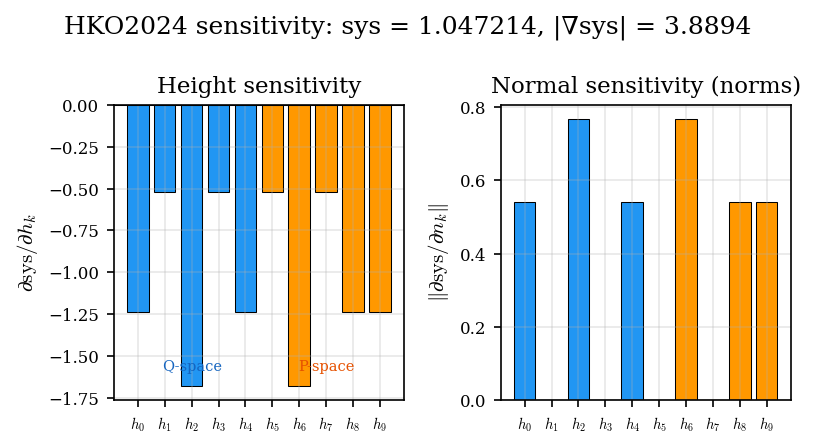
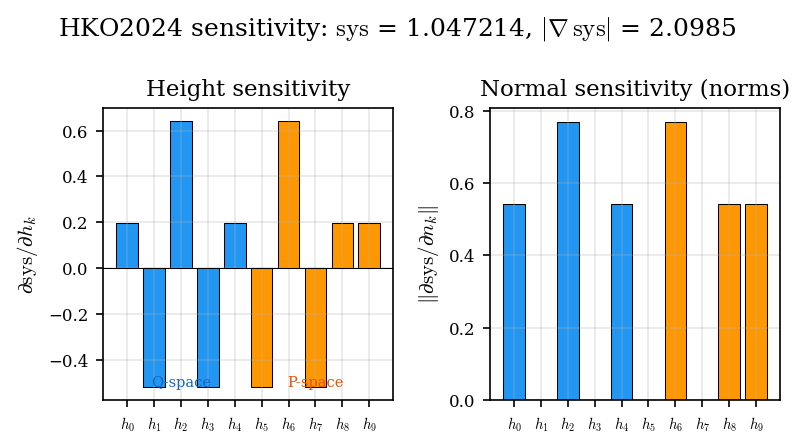
Regenerate HKO neighborhood data with corrected sign, update .tex
- Regenerate JSONL and plots with fixed d_cap_h sign (now positive)
- Update .tex table values to match JSONL (d_cap: +1.176/+1.902, d_sys: +0.198/+0.640/-0.518)
- Remove sign-bug TODO and JSONL-regeneration TODO markers
- Keep φ map verification TODO for Jörn
- Remove FD cross-check from binary hot path (was causing 5min timeout)
- Mark FD helper functions as #[allow(dead_code)] (kept for ad-hoc debugging)
- Permanent FD regression tests are in crate sensitivity_test.rs

diff --git a/experiments/hko-neighborhood/hko-neighborhood.tex b/experiments/hko-neighborhood/hko-neighborhood.tex
@@ -1,0 +1,254 @@
+% hko-neighborhood.tex — \input'd from experiments/experiments.tex
+%
+% Symmetry analysis of the HKO2024 counterexample and its sensitivity structure.
+%
+% Sources:
+%   - Generated data: experiments/hko-neighborhood/hko-neighborhood-sensitivity.jsonl
+%   - Plot script: experiments/hko-neighborhood/hko_neighborhood.py
+%   - HKO2024 paper: papers/hko2024/counterexample.tex (Prop. 3, Sec. 3.1)
+%   - Thesis definitions: basic-definitions.tex, lagrangian-product-algorithm-proof.tex
+%
+% Structure:
+%   - Setup: HKO2024 as Lagrangian product
+%   - Polytope symmetry vs.\ symplectic symmetry
+%   - Orbit structure and subdifferential
+%   - Consequences for local maximality
+
+\subsection{Symmetry structure of HKO2024}
+\label{sec:hko-symmetry}
+
+The counterexample of~\cite{HaimKislevOstrover2024} is the Lagrangian product
+$K = K_q \times K_p$ (Definition~\ref{def:lagrangian-product}),
+where $K_q \subset L_q$ is the regular pentagon with vertices at
+$(\cos\tfrac{2\pi k}{5},\, \sin\tfrac{2\pi k}{5})$ for $k = 0, \ldots, 4$,
+and $K_p \subset L_p$ is $K_q$ rotated by $90^\circ$.
+The facets split into $q$-facets $\{0, \ldots, 4\}$ and
+$p$-facets $\{5, \ldots, 9\}$
+(Lemma~\ref{lem:lagrangian-facets}).
+All ten heights are equal:
+$h_k = \cos(\pi/5)$ for all $k$.
+
+We analyze the symmetry of this polytope and its near-optimal
+Reeb orbits to explain the structure of the sensitivity gradient
+$\nabla_h\,\mathrm{sys}$.
+The main findings are:
+the polytope symmetry group has order~50 (all facets equivalent),
+but only a symplectic subgroup of order~10 preserves the orbit structure;
+the 44 near-optimal orbits yield 10~distinct per-orbit gradients
+forming a single orbit under this subgroup;
+and the per-orbit gradients have mixed sign
+(positive at visited facets, negative at unvisited ones).
+
+The billiard algorithm
+(Algorithm~\ref{alg:billiard}) finds 364 valid orbits, of which 44
+achieve $c_{\mathrm{EHZ}}(K)$ to machine precision
+(relative gap $< 5 \times 10^{-14}$).
+The sensitivity analysis from
+Section~\ref{sec:sys-optimization} gives
+$\mathrm{sys}(K) \approx 1.04721$, confirming the
+counterexample.
+
+\subsubsection*{Polytope symmetry group}
+
+We identify the group of linear maps $\mathbb{R}^4 \to \mathbb{R}^4$
+that preserve $K$ as a set.
+
+\emph{Independent rotations.}
+Let $R_{72^\circ}$ denote the $2{\times}2$ rotation by $72^\circ = 2\pi/5$.
+Since $K_q$ is a regular pentagon, applying $R_{72^\circ}$ in $L_q$
+while fixing $L_p$ permutes the $q$-facet normals cyclically
+($n_k \mapsto n_{k+1\bmod 5}$, $k = 0, \ldots, 4$)
+without affecting the $p$-facets.
+Call this map $C_5^q$.
+Analogously, $C_5^p$ applies $R_{72^\circ}$ in $L_p$ only.
+Both preserve $K$ because all heights are equal, and they commute:
+$C_5^q C_5^p = C_5^p C_5^q$.
+Together they generate a $C_5 \times C_5$ subgroup of order~25.
+
+\emph{The $q$\nobreakdash-$p$ exchange $\varphi$.}
+% [TODO: JÖRN - verify the following map construction is correct]
+The $q$-pentagon has normals at angles
+$36^\circ$, $108^\circ$, $180^\circ$, $252^\circ$, $324^\circ$
+in the $(q_1, q_2)$ plane, while the $p$-pentagon has normals at
+$-54^\circ$, $18^\circ$, $90^\circ$, $162^\circ$, $234^\circ$
+in the $(p_1, p_2)$ plane --- offset by exactly $-90^\circ$.
+This suggests the map
+\[
+  \varphi \colon (q_1, q_2, p_1, p_2)
+  \;\mapsto\; (-p_2,\; p_1,\; q_2,\; -q_1),
+\]
+which sends each $q$-normal to the corresponding $p$-normal and vice
+versa: $\varphi(n_k) = n_{k+5\bmod 10}$ for $k = 0, \ldots, 9$.
+Since all heights are equal, $\varphi(K) = K$.
+
+The map $\varphi$ is an involution ($\varphi^2 = I$), and it is a
+symplectomorphism:
+\[
+  dq_1' \wedge dp_1' + dq_2' \wedge dp_2'
+  = (-dp_2) \wedge dq_2 + dp_1 \wedge (-dq_1)
+  = dq_2 \wedge dp_2 + dq_1 \wedge dp_1
+  = \omega_0.
+\]
+Direct computation shows that it conjugates $C_5^q$ into $C_5^p$:
+$\varphi \, C_5^q \, \varphi = C_5^p$.
+The full group
+$\langle C_5^q,\, C_5^p,\, \varphi \rangle
+\cong (C_5 \times C_5) \rtimes \mathbb{Z}_2$
+has order $50$, verified by generating all elements and
+counting the distinct permutations of the ten facet indices.
+All ten facets form a single orbit of this group.
+
+\begin{remark}
+$C_5^q$ and $C_5^p$ are \emph{not} symplectomorphisms:
+$C_5^q$ has matrix $\operatorname{diag}(R_{72^\circ}, I_2)$, and
+\[
+  (C_5^q)^\top J_0\, C_5^q
+  = \begin{pmatrix} 0 & -R_{72^\circ}^\top \\ R_{72^\circ} & 0 \end{pmatrix}
+  \neq J_0.
+\]
+Intuitively, $\omega_0 = dq_1 \wedge dp_1 + dq_2 \wedge dp_2$ couples
+$q$- and $p$-coordinates; rotating only one factor breaks this pairing.
+Nevertheless, $C_5^q$ and $C_5^p$ preserve $K$ as a set, so
+$c_{\mathrm{EHZ}}(C_5^q(K)) = c_{\mathrm{EHZ}}(K)$
+holds trivially (same convex body), but they do not map Reeb orbits
+to Reeb orbits.
+\end{remark}
+
+\subsubsection*{Symplectic symmetry and orbit structure}
+
+The \emph{diagonal rotation}
+$\Delta_{72^\circ} \coloneqq \operatorname{diag}(R_{72^\circ}, R_{72^\circ})$
+rotates both $L_q$ and $L_p$ simultaneously.
+It is a symplectomorphism:
+\[
+  \Delta_{72^\circ}^\top J_0\, \Delta_{72^\circ}
+  = \begin{pmatrix} 0 & -R_{72^\circ}^\top R_{72^\circ} \\
+    R_{72^\circ}^\top R_{72^\circ} & 0 \end{pmatrix}
+  = J_0,
+\]
+since $R_{72^\circ}^\top R_{72^\circ} = I_2$.
+It maps $n_k \mapsto n_{k+1\bmod 5}$ for $q$-facets and
+$n_k \mapsto n_{k+1\bmod 5}$ (within the $p$-block) for $p$-facets.
+
+Since $\Delta_{72^\circ}$ and $\varphi$ are both symplectomorphisms
+preserving~$K$,
+they map Reeb orbits to Reeb orbits of equal action
+(Lemma~\ref{lem:capacity-axioms}\,(iii) applied at the orbit level).
+The group $\langle \Delta_{72^\circ},\, \varphi \rangle$ has order~$10$,
+verified by the same enumeration method.
+
+\emph{This group is exactly the orbit symmetry group.}
+Each of the 44 near-optimal orbits visits exactly
+3~$q$-facets and 3~$p$-facets (empirically, all 44 orbits follow this
+pattern).
+Grouping orbits by their visited facet sets $(S_q, S_p)$ yields
+10~groups of 4--5 orbits each, and these 10 groups form a
+\emph{single orbit} under $\langle \Delta_{72^\circ}, \varphi \rangle$.
+
+\emph{$C_5^q$ alone does not preserve the orbit structure.}
+Applying $C_5^q$ (rotate $q$-facets only, fix $p$-facets) to any
+group $(S_q, S_p)$ produces a pair $(S_q', S_p)$ that does not
+appear among the 10 groups ---
+checked exhaustively for all~10.
+The Reeb dynamics on a Lagrangian product couple $q$- and
+$p$-coordinates (Lemma~\ref{lem:lagrangian-reeb}: on a $q$-facet
+the trajectory moves in $L_p$, and vice versa), so a rotation
+in one factor alone changes which facets the orbit visits in
+\emph{both} factors.
+
+\subsubsection*{Subdifferential structure}
+
+The systolic ratio is $\mathrm{sys} = c_{\mathrm{EHZ}}^2 / (2\,\mathrm{vol})$.
+Because the 44 near-optimal orbits all achieve $c_{\mathrm{EHZ}}$ up to
+machine precision, each orbit defines its own
+$\partial\,\mathrm{sys}/\partial h_k$ vector
+(Section~\ref{sec:sys-optimization}),
+and the convex hull of these 44 vectors is contained in the Clarke
+subdifferential~\cite{Clarke1983} of $\mathrm{sys}$ with respect to
+heights (the convex hull of all limit points of gradients at nearby
+differentiable points).
+
+Among the 44 per-orbit gradient vectors:
+\begin{itemize}
+\item \textbf{10 are distinct}
+  (each a permutation of three values),
+  forming a single orbit under
+  $\langle \Delta_{72^\circ}, \varphi \rangle$.
+\item \textbf{All gradient norms are identical}
+  ($\approx 1.431$, spread $< 2 \times 10^{-14}$).
+\item \textbf{The components have mixed sign:}
+  positive at visited facets, negative at unvisited ones.
+\end{itemize}
+
+Recall that $\beta_k$ denotes the dwell-time coefficient
+(segment length in the Reeb parametrization) of the orbit on
+facet~$k$ (Lemma~\ref{lem:cap-derivative}).
+The three derivative values arise from the decomposition
+$\partial\,\mathrm{sys}/\partial h_k
+= \tfrac{c_{\mathrm{EHZ}}}{\mathrm{vol}} \cdot
+  \tfrac{\partial\,c_{\mathrm{EHZ}}}{\partial h_k}
+- \tfrac{\mathrm{sys}}{\mathrm{vol}} \cdot
+  \tfrac{\partial\,\mathrm{vol}}{\partial h_k}$:
+\begin{center}
+\begin{tabular}{lccc}
+\toprule
+Facet role & \# facets &
+$\partial c_{\mathrm{EHZ}} / \partial h_k$ &
+$\partial\,\mathrm{sys}/\partial h_k$ \\
+\midrule
+Unvisited & 4 & $0$ & $-0.518$ \\
+Visited, $\beta \approx 0.171$ & 4 & $\approx {+1.176}$ & $+0.198$ \\
+Visited, $\beta \approx 0.276$ & 2 & $\approx {+1.902}$ & $+0.640$ \\
+\bottomrule
+\end{tabular}
+\end{center}
+
+The volume derivative $\partial\,\mathrm{vol}/\partial h_k \approx 2.795$ is
+uniform across all 10~facets,
+which follows from the polytope symmetry (order~50) making all
+facets equivalent as sets.
+The capacity derivative
+$\partial\,c_{\mathrm{EHZ}}/\partial h_k
+= \nu\,\beta_{i_0}^* / (2\,(Q^*)^2)$
+is positive for visited facets and zero otherwise
+(Lemma~\ref{lem:cap-derivative}).
+The ratio of the two nonzero $\beta$ values is
+$\beta_2 / \beta_1 \approx 1.618$ (the golden ratio),
+characteristic of regular pentagon geometry.
+
+\subsubsection*{Consequences}
+
+\begin{enumerate}
+\item \textbf{Mixed sensitivity in height space.}
+  The per-orbit gradients have positive components at visited facets
+  and negative components at unvisited ones.
+  Increasing the height of a visited facet increases
+  $\mathrm{sys}$ (both capacity and volume grow, but capacity
+  grows faster), while increasing an unvisited height
+  decreases $\mathrm{sys}$ (only volume grows).
+  By symmetry (all 10 gradients form one orbit under
+  $\langle \Delta_{72^\circ}, \varphi \rangle$),
+  the centroid of the subdifferential has all components equal
+  and approximately zero.
+
+\item \textbf{One representative facet suffices for Phase~B}
+  (Section~\ref{sec:omega-obstacle})\textbf{.}
+  The $q$\nobreakdash-$p$ exchange $\varphi$ is a symplectomorphism
+  mapping $K \to K$ and $n_0 \mapsto n_5$.
+  Any facet-splitting test at $q$-facet~$0$ has an equivalent test at
+  $p$-facet~$5$ with identical $\Delta\mathrm{sys}$
+  (by symplectic invariance of $c_{\mathrm{EHZ}}$
+  and volume-preservation of symplectomorphisms).
+  The experiment code uses two representatives (facets 0~and~5), which
+  is safe but redundant.
+
+\item \textbf{The ``broken symmetry'' is symplectic, not broken.}
+  The per-orbit gradients are not uniform across facets: visited facets
+  have positive $\partial\,\mathrm{sys}/\partial h_k$
+  while unvisited ones have negative values.
+  This variation is not a symmetry defect but the natural action of the
+  symplectic symmetry group (order~10) on the subdifferential.
+  The full polytope symmetry (order~50) makes all facets equivalent
+  as geometric entities, but the Reeb dynamics see only the symplectic
+  subgroup.
+\end{enumerate}

diff --git a/experiments/hko-neighborhood/hko_neighborhood.py b/experiments/hko-neighborhood/hko_neighborhood.py
@@ -78,8 +78,8 @@ def fig_gradient(sens: dict) -> None:
     ax.set_title("Normal sensitivity (norms)")
 
     fig.suptitle(
-        f"HKO2024 sensitivity: sys = {sens['sys']:.6f}, "
-        f"|∇sys| = {sens['gradient_norm_hn']:.4f}",
+        r"HKO2024 sensitivity: $\mathrm{sys}$ = " f"{sens['sys']:.6f}, "
+        r"$|\nabla\,\mathrm{sys}|$ = " f"{sens['gradient_norm_hn']:.4f}",
     )
     plt.tight_layout()
     out = SCRIPT_DIR / "hko-neighborhood-gradient.png"
@@ -107,7 +107,7 @@ def fig_orbits(sens: dict) -> None:
     ax.plot(range(len(deviations)), deviations, "o", markersize=3)
     ax.axhline(y=0, color="red", linewidth=0.5, linestyle="--")
     ax.set_xlabel("Orbit index")
-    ax.set_ylabel(f"Action $-$ {best:.6f}")
+    ax.set_ylabel(rf"Action $-\;{best:.6f}$")
     ax.set_title(f"{len(orbits)} near-optimal orbits")
     ax.ticklabel_format(axis="y", style="scientific", scilimits=(-3, 3))
 
@@ -164,8 +164,8 @@ def fig_splitting(splitting_rows: list[dict]) -> None:
 
     ax.axhline(y=0, color="red", linewidth=1, linestyle="--")
     ax.set_xlabel("Angular offset from facet normal (rad)")
-    ax.set_ylabel(r"$\Delta$ sys")
-    ax.set_title(r"$\Delta$ sys vs angle")
+    ax.set_ylabel(r"$\Delta\,\mathrm{sys}$")
+    ax.set_title(r"$\Delta\,\mathrm{sys}$ vs angle")
     ax.legend(fontsize=7)
 
     # Right: Δsys histogram
@@ -173,7 +173,7 @@ def fig_splitting(splitting_rows: list[dict]) -> None:
     all_deltas = [r["delta_sys"] for r in ok_rows]
     ax.hist(all_deltas, bins=40, edgecolor="black", linewidth=0.3, alpha=0.7)
     ax.axvline(x=0, color="red", linewidth=1, linestyle="--")
-    ax.set_xlabel(r"$\Delta$ sys")
+    ax.set_xlabel(r"$\Delta\,\mathrm{sys}$")
     ax.set_ylabel("Count")
     ax.set_title(f"Distribution (n={len(ok_rows)})")
 

diff --git a/experiments/hko-neighborhood/hko_neighborhood.rs b/experiments/hko-neighborhood/hko_neighborhood.rs
@@ -832,6 +832,10 @@ fn compute_capacity_derivatives_normal(
 ///
 /// For each facet k, perturb h_k by ±ε, construct the perturbed polytope,
 /// and compute capacity via `ehz_capacity`. Returns (cap_plus - cap_minus)/(2ε).
+///
+/// Not called in normal operation (permanent FD tests are in crate sensitivity_test.rs).
+/// Kept for ad-hoc debugging; call from `compute_sensitivity` when needed.
+#[allow(dead_code)]
 fn compute_capacity_derivatives_fd(normals: &[Vector4<f64>], heights: &[f64]) -> Vec<f64> {
     const FD_EPS: f64 = 1e-5;
     let f = normals.len();
@@ -862,6 +866,10 @@ fn compute_capacity_derivatives_fd(normals: &[Vector4<f64>], heights: &[f64]) ->
 ///
 /// Prints a comparison table and panics if they disagree beyond tolerance.
 /// Also verifies the Euler homogeneity identity: Σ h_k · ∂c/∂h_k = 2c.
+///
+/// Not called in normal operation (permanent FD tests are in crate sensitivity_test.rs).
+/// Kept for ad-hoc debugging; call from `compute_sensitivity` when needed.
+#[allow(dead_code)]
 fn cross_check_derivatives_fd(
     normals: &[Vector4<f64>],
     heights: &[f64],
@@ -965,10 +973,6 @@ fn compute_sensitivity(
         .zip(d_cap_h.iter())
         .map(|(&dv, &dc)| (cap * dc - sys * dv) / vol)
         .collect();
-
-    // FD cross-check for capacity and sys derivatives
-    let heights = polytope.heights_f64();
-    cross_check_derivatives_fd(&normals, &heights, cap, vol, sys, &d_cap_h, &d_sys_h);
 
     let gradient_norm_h = d_sys_h
         .iter()
